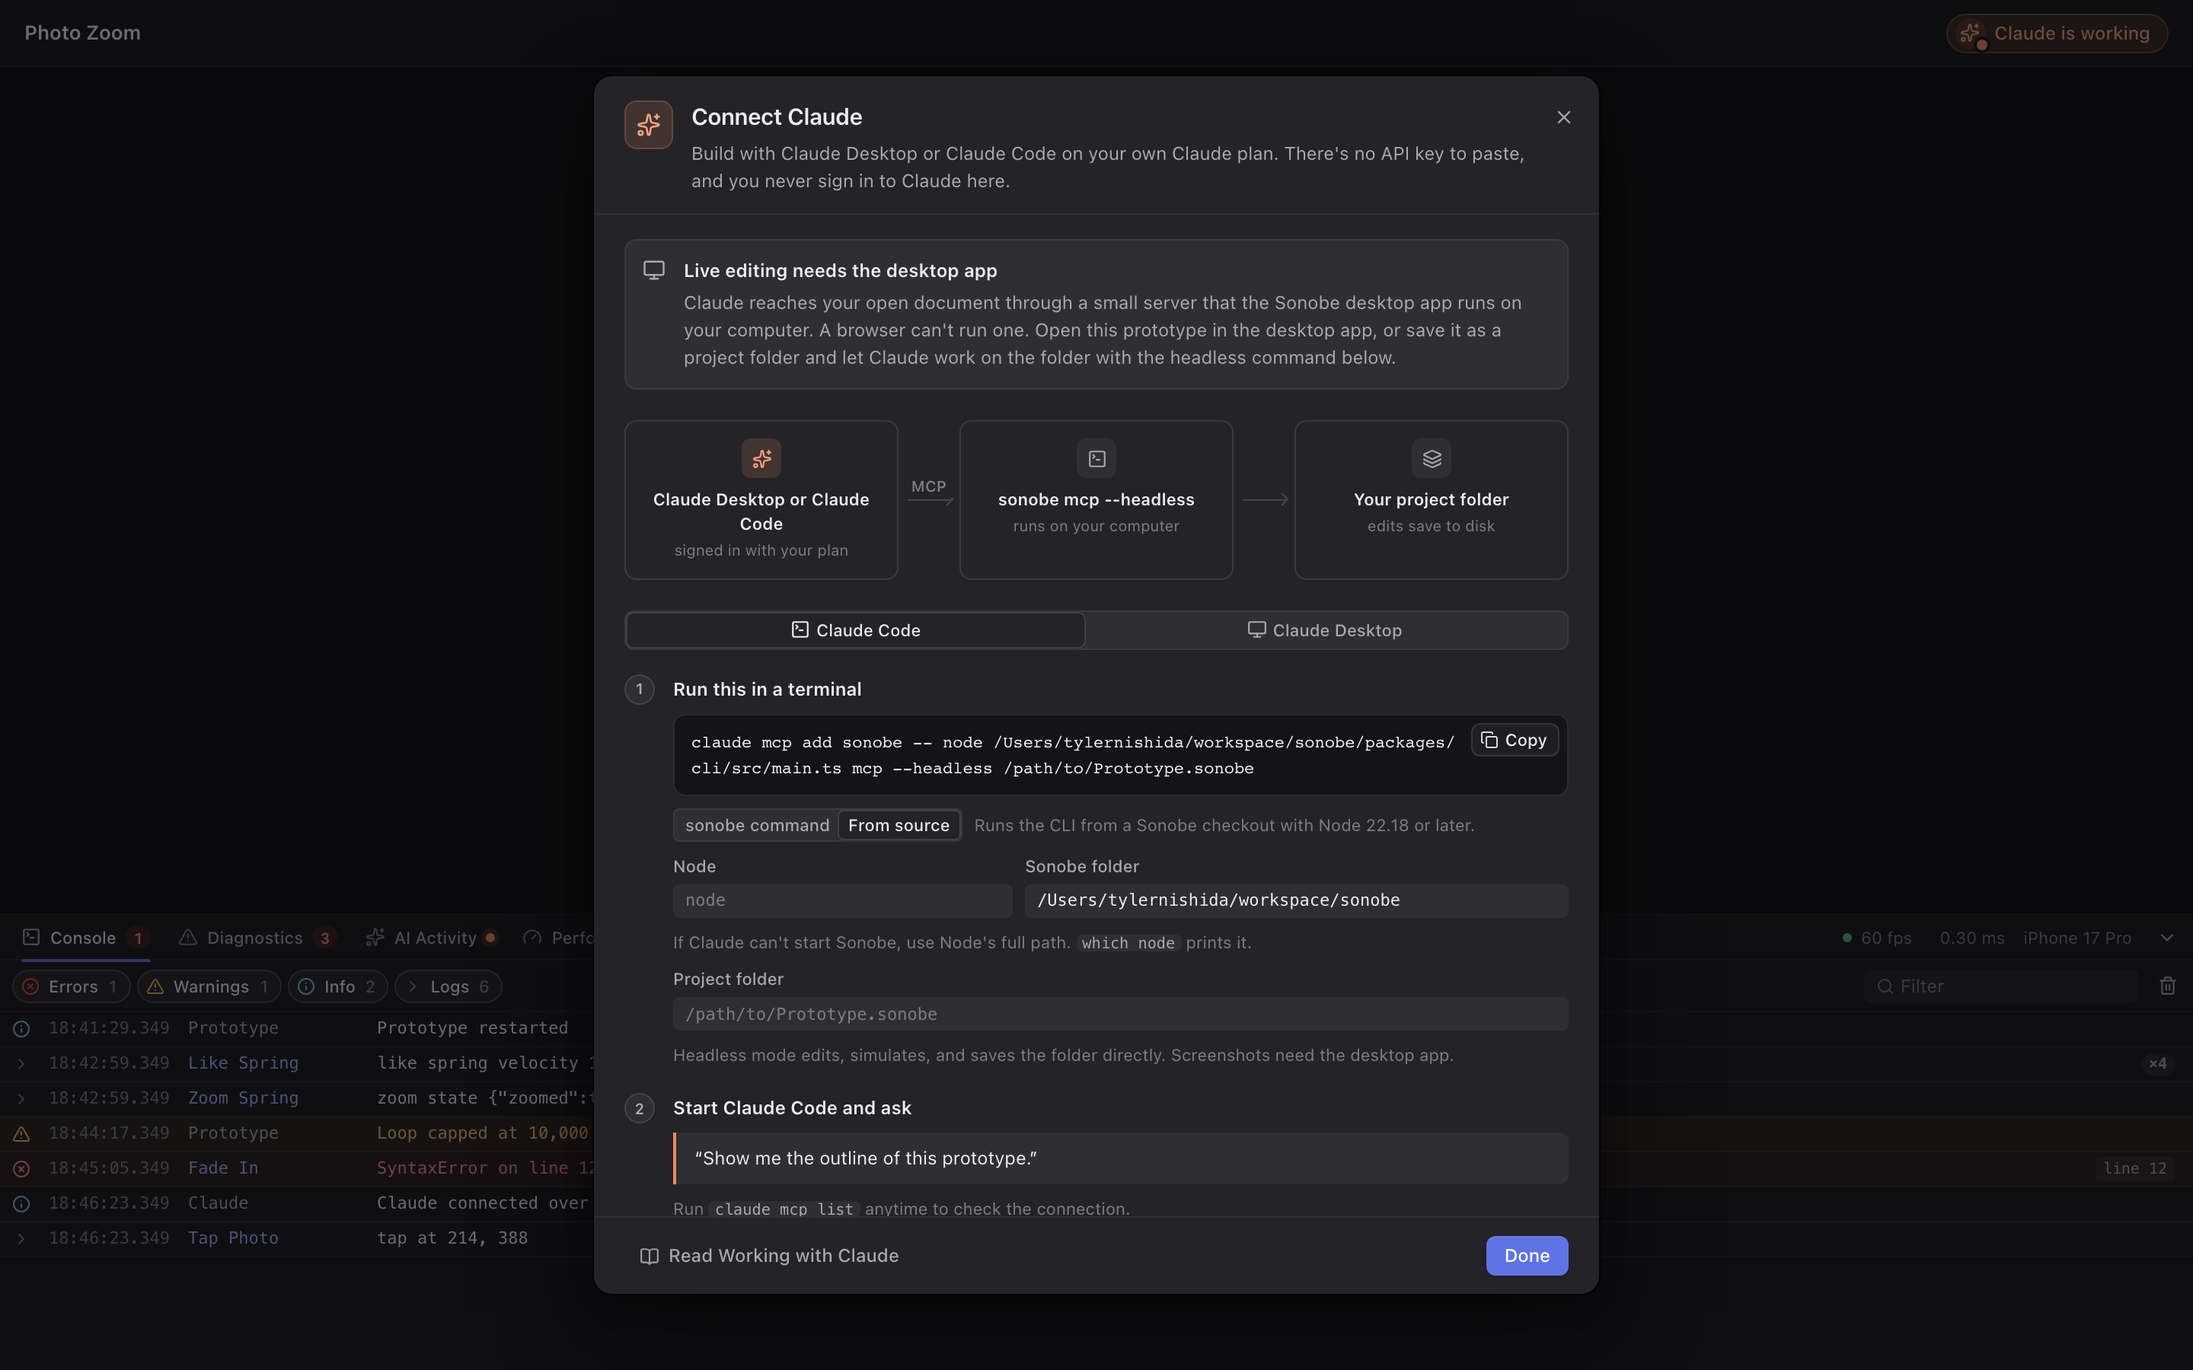
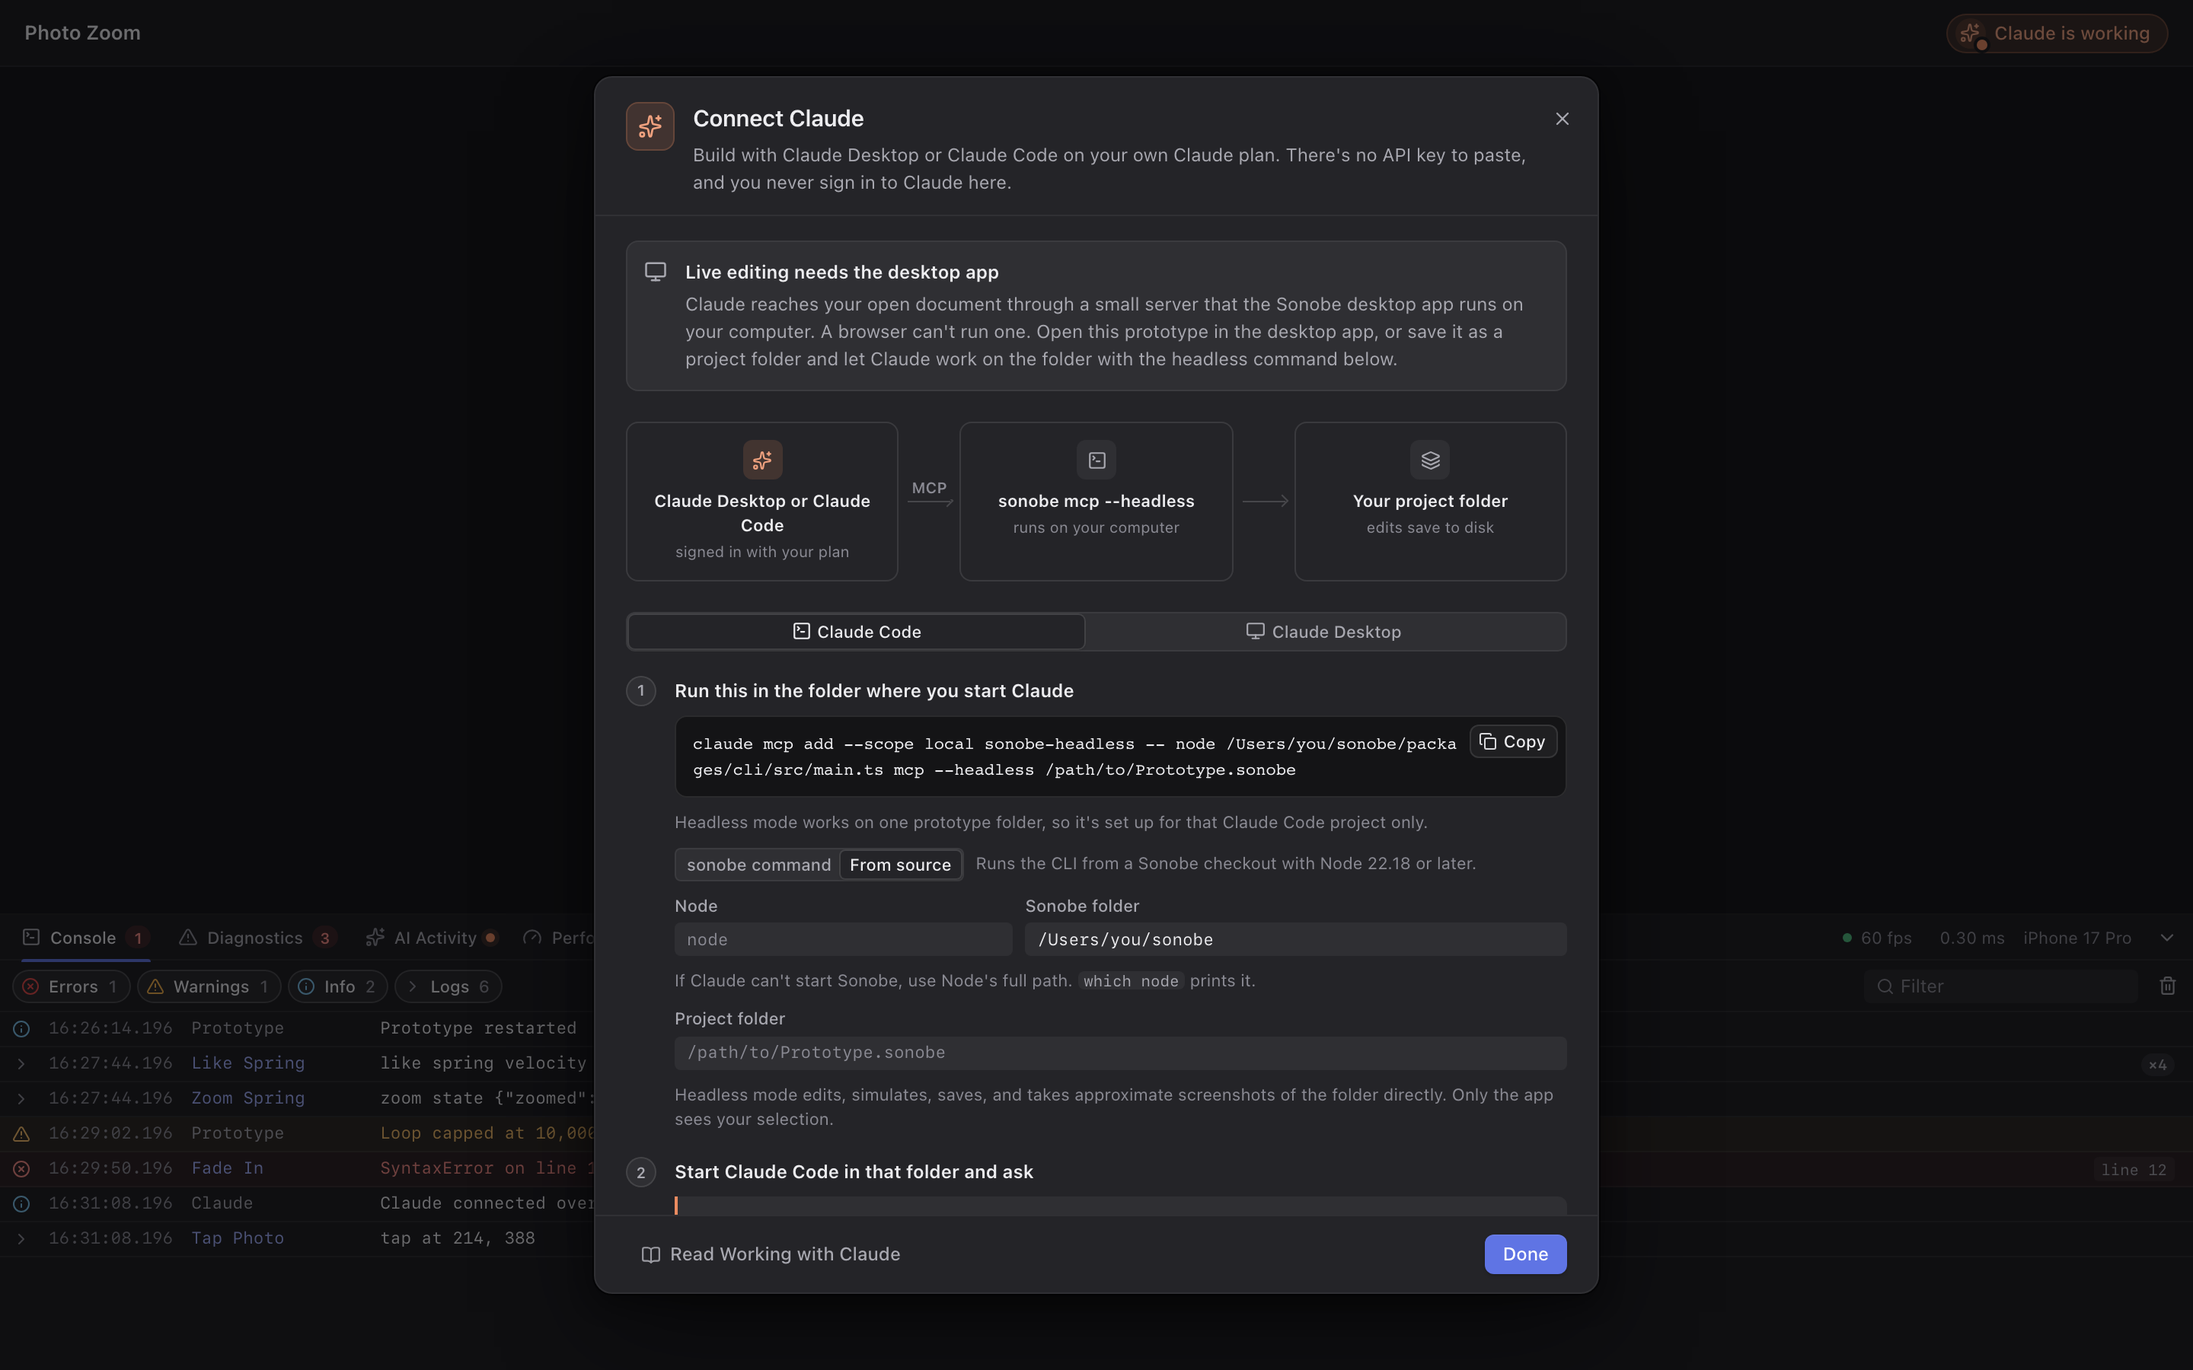
Relay: say goodbye on SIGINT, which is how Claude Code stops stdio servers
Checked against the real Claude Code 2.1.278 through the relay: when a
session ends, Claude Code sends the server SIGINT instead of closing
stdin. The relay died before its goodbye, so Connect Claude kept listing
the session as connected until its heartbeat went stale (75 s).

- runRelay takes a `stop` signal and ends like on stdin close: in-flight
  calls abort and the goodbye goes out. The CLI aborts it on SIGINT and
  SIGTERM (a second signal still kills), then lets stdin go so the
  process exits.
- Tests: a stop signal ends the relay with a goodbye; a spawned relay
  exits 0 on SIGINT and its session is gone at once.
- Docs: ARCHITECTURE §10 Sessions and the Connect Claude status card in
  the MCP and CLI READMEs; the desktop smoke describes its sessions step.
- Connect Claude preview screenshots show the session list, with a fixed
  repo path instead of the local checkout's.

Claude-Session: https://claude.ai/code/session_01A7nFpmeE33dxWcc9aFparA

diff --git a/packages/cli/src/relay.ts b/packages/cli/src/relay.ts
@@ -7,7 +7,8 @@
  *
  * It also tells the app which session it is, so Connect Claude can list connected sessions: every
  * POST carries a per-process `sonobe-client` id, and /clients gets a hello with the client's name and
- * the session's folder, a heartbeat every 30 s, and a goodbye when stdin closes. Node only.
+ * the session's folder, a heartbeat every 30 s, and a goodbye when stdin closes or `stop` aborts
+ * (the CLI aborts it on SIGINT and SIGTERM). Node only.
  */
 
 import { randomUUID } from "node:crypto";
@@ -46,6 +47,11 @@ export interface RelayOptions {
   heartbeatMs?: number;
   /** The session id (default: a random UUID per process). */
   randomId?: () => string;
+  /**
+   * Aborts when the process is asked to stop (SIGINT, SIGTERM). Claude Code ends a stdio server with
+   * SIGINT rather than by closing stdin; the relay then stops like on stdin end, goodbye included.
+   */
+  stop?: AbortSignal;
 }
 
 /**
@@ -366,6 +372,9 @@ export async function runRelay(options: RelayOptions): Promise<number> {
   };
 
   const lines = createInterface({ input: options.stdin, crlfDelay: Infinity });
+  const stopReading = () => lines.close();
+  if (options.stop?.aborted) stopReading();
+  else options.stop?.addEventListener("abort", stopReading, { once: true });
   for await (const line of lines) {
     if (!line.trim()) continue;
     let message: JsonRpcMessage | JsonRpcMessage[];
@@ -398,11 +407,13 @@ export async function runRelay(options: RelayOptions): Promise<number> {
     const task = forward(message).finally(() => pending.delete(task));
     pending.add(task);
   }
-  // stdin closing is how a client shuts the server down (the MCP stdio spec). Nobody reads the
-  // answers any more, so end the calls still running; the app sees their streams close.
+  // stdin closing (or a stop signal) is how a client shuts the server down (the MCP stdio spec).
+  // Nobody reads the answers any more, so end the calls still running; the app sees their streams close.
+  options.stop?.removeEventListener("abort", stopReading);
   clearInterval(heartbeat);
   for (const controller of inflight.values()) controller.abort();
   await Promise.all([...pending]);
+  // Goodbye, so Connect Claude marks the session gone now rather than after 75 s without a heartbeat.
   await hello;
   if (announced && announcing)
     await fetchImpl(new URL(`/clients/${clientId}`, connection.url), {

diff --git a/packages/cli/src/cli.ts b/packages/cli/src/cli.ts
@@ -442,6 +442,26 @@ async function cmdSim(args: string[], io: CliIo): Promise<number> {
   }
 }
 
+/**
+ * SIGINT and SIGTERM stop the relay like stdin closing does. Claude Code ends stdio servers with
+ * SIGINT, and without this the relay died before its goodbye, so the session stayed listed for 75 s.
+ * A second signal still kills the process.
+ */
+function stopOnSignals(): { signal: AbortSignal; dispose(): void } {
+  const controller = new AbortController();
+  const stop = () => controller.abort();
+  const signals = ["SIGINT", "SIGTERM"] as const;
+  for (const name of signals) process.once(name, stop);
+  return {
+    signal: controller.signal,
+    dispose() {
+      for (const name of signals) process.removeListener(name, stop);
+      // stdin is still open when a signal stopped the relay; let the process exit.
+      if (controller.signal.aborted) process.stdin.destroy();
+    },
+  };
+}
+
 async function cmdMcp(args: string[], io: CliIo): Promise<number> {
   const { values, positionals } = parse("mcp", args, {
     headless: { type: "string" },
@@ -453,17 +473,24 @@ async function cmdMcp(args: string[], io: CliIo): Promise<number> {
       `Unexpected argument "${positionals[0]}". Did you mean --headless "${positionals[0]}"?`,
       "mcp",
     );
-  if (values.headless === undefined)
-    return runRelay({
-      home: sonobeHome(io.env),
-      stdin: io.stdin,
-      stdout: io.stdout,
-      stderr: io.stderr,
-      fetch: io.fetch,
-      env: io.env,
-      cwd: io.cwd,
-      version: VERSION,
-    });
+  if (values.headless === undefined) {
+    const signals = io.stdin === process.stdin ? stopOnSignals() : null;
+    try {
+      return await runRelay({
+        home: sonobeHome(io.env),
+        stdin: io.stdin,
+        stdout: io.stdout,
+        stderr: io.stderr,
+        fetch: io.fetch,
+        env: io.env,
+        cwd: io.cwd,
+        version: VERSION,
+        ...(signals ? { stop: signals.signal } : {}),
+      });
+    } finally {
+      signals?.dispose();
+    }
+  }
   const dir = path.resolve(io.cwd, values.headless);
   const autosave = !values["no-autosave"];
   const host = createHeadlessHost({ autosave });

diff --git a/packages/cli/src/relay.test.ts b/packages/cli/src/relay.test.ts
@@ -32,6 +32,7 @@ interface RelayTestOptions {
   env?: Record<string, string | undefined>;
   cwd?: string;
   heartbeatMs?: number;
+  stop?: AbortSignal;
 }
 
 /** The relay over a fake app: /health answers, /clients answers `clients`, /mcp POSTs go to `app`. */
@@ -70,6 +71,7 @@ function relay(app: AppHandler, options: RelayTestOptions = {}) {
     version: "0.1.0-test",
     randomId: () => "11111111-aaaa-4bbb-8ccc-000000000001",
     ...(options.heartbeatMs !== undefined ? { heartbeatMs: options.heartbeatMs } : {}),
+    ...(options.stop ? { stop: options.stop } : {}),
   });
   const send = (message: Record<string, unknown>) => stdin.write(`${JSON.stringify({ jsonrpc: "2.0", ...message })}\n`);
   return { stdin, lines, seen, errors, done, send };
@@ -197,6 +199,20 @@ describe("sonobe mcp relay: sessions", () => {
     const hellos = r.seen.filter((s) => s.path === "/clients" && s.method === "POST");
     expect(hellos.length).toBeGreaterThanOrEqual(2);
     expect(hellos.every((h) => h.body?.name === "claude-code" && h.body?.version === "2.2.0" && h.body?.folder === "/Users/me/app")).toBe(true);
+  });
+
+  it("stops and says goodbye when asked to stop, as Claude Code does with SIGINT", async () => {
+    const stop = new AbortController();
+    const record = { aborted: false };
+    const r = relay((message, signal) => (message.method === "tools/call" ? hanging(record)(message, signal) : answering(message, signal)), { stop: stop.signal });
+    r.send(INITIALIZE);
+    await until(() => r.lines.length === 1);
+    r.send(call(7));
+    await until(() => r.seen.some((s) => s.body?.method === "tools/call"));
+    stop.abort();
+    expect(await r.done).toBe(0);
+    expect(record.aborted).toBe(true);
+    expect(r.seen.at(-1)).toMatchObject({ method: "DELETE", path: `/clients/${ID}` });
   });
 
   it("keeps relaying for an older app without /clients, with one line on stderr", async () => {

diff --git a/packages/cli/src/cli.test.ts b/packages/cli/src/cli.test.ts
@@ -404,6 +404,20 @@ describe("sonobe main.ts end to end", () => {
     expect(clients.get(session!.id)?.state).toBe("gone");
   });
 
+  it("says goodbye and exits on SIGINT, which is how Claude Code stops stdio servers", async () => {
+    const folder = path.join(path.dirname(project), "sigint");
+    const child = spawn(process.execPath, [MAIN, "mcp"], { env: childEnv({ SONOBE_HOME: home, CLAUDE_PROJECT_DIR: folder }) });
+    const exited = new Promise<number | null>((resolve) => child.once("exit", (code) => resolve(code)));
+    child.stdin.write(`${JSON.stringify({ jsonrpc: "2.0", id: 0, method: "initialize", params: { protocolVersion: "2025-11-25", capabilities: {}, clientInfo: { name: "claude-code", version: "2.1.278" } } })}\n`);
+    const end = Date.now() + 5000;
+    while (!clients.list().some((c) => c.folder === folder) && Date.now() < end) await new Promise((resolve) => setTimeout(resolve, 20));
+    const session = clients.list().find((c) => c.folder === folder)!;
+    expect(session.state).toBe("connected");
+    child.kill("SIGINT");
+    expect(await exited).toBe(0);
+    expect(clients.get(session.id)?.state).toBe("gone");
+  });
+
   it("relays 2026-07-28 requests with Mcp-* headers", async () => {
     const meta = {
       "io.modelcontextprotocol/protocolVersion": "2026-07-28",

diff --git a/apps/editor/src/panels/hud/preview/preview.tsx b/apps/editor/src/panels/hud/preview/preview.tsx
@@ -177,7 +177,7 @@ function PreviewApp({ view }: { view: string }) {
       <div className="pv-hud">
         <Hud defaultTab={hudTab} onToggleCollapse={() => undefined} onConnectClaude={() => setConnectOpen(true)} />
       </div>
-      <ConnectClaudeDialog open={connectOpen} onOpenChange={setConnectOpen} host={host} initialTab={view === "connect-desktop-config" ? "desktop" : "code"} onOpenGuide={() => undefined} />
+      <ConnectClaudeDialog open={connectOpen} onOpenChange={setConnectOpen} host={host} initialTab={view === "connect-desktop-config" ? "desktop" : "code"} defaults={{ repoPath: "/Users/you/sonobe" }} onOpenGuide={() => undefined} />
     </div>
   );
 }

diff --git a/ARCHITECTURE.md b/ARCHITECTURE.md
@@ -475,13 +475,19 @@ The web player (`apps/desktop/player`) runs the real engine and DOM renderer ful
 - Electron main hosts Streamable HTTP MCP at `http://127.0.0.1:<port>/mcp`. It validates Host/Origin and requires a bearer token.
 - The port and token are written to `~/.sonobe/mcp.json` (0600).
 - `sonobe mcp` (the CLI) is a stdio relay to the running app. With `--headless <project>`, it serves a project folder without the app: ops, simulation, save, and screenshots drawn from the SceneFrame (SVG rasterized to PNG with `@resvg/resvg-js`, approximate text metrics, placeholders for video, Lottie and shaders). Headless mode has no editor selection and no canvas or graph capture targets.
+- **Sessions** (`clients.ts`). The app knows which sessions are connected, not just that its server listens:
+  - The relay sends a per-process id in a `sonobe-client` header on every POST. On `/clients` it says hello with the client's `clientInfo` and the session's folder (`CLAUDE_PROJECT_DIR`, else its working folder), heartbeats every 30 s, and says goodbye when stdin closes or on SIGINT/SIGTERM (Claude Code stops stdio servers with SIGINT). An app without `/clients` answers 404, and the relay keeps relaying.
+  - `createClientRegistry` holds the sessions: connected, gone after a goodbye or 75 s of silence, forgotten after 10 minutes. Clients without the relay share one anonymous row.
+  - The client id rides the HTTP transport's per-request call scope (`CallScope.clientId`), so every tool call counts toward its session. Over stateless HTTP, initialize's `clientInfo` is gone by `tools/call`, so edits are attributed by the name the hello announced.
+  - Working badges are kept per session (`WorkIntent.client`), so two sessions don't replace each other's.
+  - `getMcpStatus` returns the sessions, and the toolbar's Claude button is green only while one is connected.
 - Tool handlers run against `SonobeHost`:
 
   ```ts
   interface SonobeHost {
     listDocuments(); openDocument(ref, { reload, ...control }); createDocument(request, control?); getDocument(docId?);
     saveDocument(docId?, { force, ...control }); apply(ops, { label, author, dryRun, expectedRevision, signal });
-    getSelection(); screenshot(target, opts); reveal(ids); setWorking(ids, intent | null);
+    getSelection(); screenshot(target, opts); reveal(ids); setWorking({ ids, intent } | null, { author, client });
     captureDesign?(request, control?); fetchImage?(url, signal); putAssetFiles?(files, { docId, ...control });   // design import (§13)
     sim: { reset(opts); dispatch(simId, events); step(simId, opts); trace(simId, opts); values(simId, targets); override(simId, request) };
     history: { list(opts); undo({ txnId, signal }); };
@@ -519,7 +525,8 @@ The web player (`apps/desktop/player`) runs the real engine and DOM renderer ful
 - **Deadlines.** Hosts own the precise limits. `captureDesign` has one deadline (§13) and names the stage it stopped in. The tool's own step deadline is 60 s longer, only as a safety net, so the host's error arrives first.
 - **The relay** forwards SSE progress, turns a `notifications/cancelled` on stdin into an aborted request (the app sees the stream close), aborts calls still running when stdin closes, and tells a 5-minute fetch timeout apart from a lost connection.
 - **Clients.** A hand-written SDK client must pass `onprogress` together with `resetTimeoutOnProgress`. Without `onprogress` it sends no `progressToken`, so the server can't report progress and the client's default 60 s timeout still applies.
-- **Distribution:** Claude Code plugin (`integrations/claude-code`) and `.mcpb` bundle (`integrations/claude-desktop`), both built from a checkout. The app's **Connect Claude** screen shows copy-paste setup for Claude Code and Claude Desktop, filled in for this machine (the app's bundled CLI, or Node plus a checkout). In a source checkout it also shows the commands that build and pack the `.mcpb`.
+- **The in-app assistant** calls the same tools over an in-memory transport, passing its Stop signal and asking for progress, so Stop cancels a running tool and its chip shows the tool's steps.
+- **Distribution:** Claude Code plugin (`integrations/claude-code`) and `.mcpb` bundle (`integrations/claude-desktop`), both built from a checkout. The app's **Connect Claude** screen shows copy-paste setup for Claude Code and Claude Desktop, filled in for this machine (the app's bundled CLI, or Node plus a checkout). Its Claude Code command installs the relay at user scope (`claude mcp add --scope user sonobe`), so every project gets the tools; a headless server stays with one project (local scope). In a source checkout it also shows the commands that build and pack the `.mcpb`.
 
 **Outline projection** (token-lean, read-only):
 

diff --git a/packages/cli/README.md b/packages/cli/README.md
@@ -49,4 +49,11 @@ It covers both protocol eras:
 
 `notifications/cancelled` aborts the in-flight request. When the app isn't running, or the token is stale, it explains how to start the app or use `--headless`, then exits 1.
 
+It also tells the app which session it is, so Connect Claude can list connected sessions:
+
+- Every POST carries a per-process `sonobe-client` id.
+- On the client's first message it sends a hello to `POST /clients`: the client's name and version (from `initialize`, or 2026-07-28 request metadata) and the session's folder (`CLAUDE_PROJECT_DIR`, else its working folder, but never `/` or the home folder).
+- It heartbeats every 30 s and says goodbye (`DELETE /clients/<id>`) when stdin closes or on SIGINT or SIGTERM (Claude Code stops stdio servers with SIGINT).
+- An app from before session lists answers 404: the relay writes one line to stderr and keeps relaying.
+
 `runCli(argv, io)` runs any command in-process with injectable streams (see `src/cli.test.ts`).

diff --git a/packages/mcp/README.md b/packages/mcp/README.md
@@ -50,6 +50,7 @@ mcpServerHandle.setHandler(handler); // desktop startMcpServer guards Host/Origi
 
 - `createHttpHandler` creates one `McpServer` per request and performs no auth itself; mount it behind a guard.
 - `createSonobeMcpServer(host, { version })` returns the bare `McpServer`, for custom transports.
+- Pass `clients: createClientRegistry()` to count tool calls per session (the relay's `sonobe-client` header) and name relay clients in history. The desktop also feeds it the relay's hellos on `/clients` (`parseHello`), and Connect Claude lists `clients.list()`.
 
 ### Resource notifications
 
